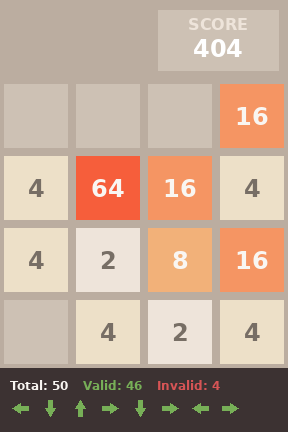
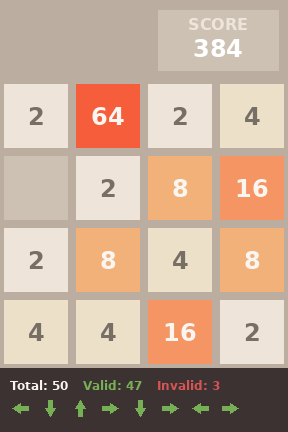
refactor: restructure package to envpack and support multiple environments
- Rename top-level package from gym_2048 to envpack\n- Restructure envs/ into game-specific subdirectories under envs/game_2048/\n- Update all imports, registrations, and setup metadata\n- Update readme and gitignore for python caches

diff --git a/envpack/__init__.py b/envpack/__init__.py
@@ -1,0 +1,9 @@
+"""Envpack: A collection of game environments for Gymnasium."""
+
+from gymnasium.envs.registration import register
+
+register(
+    id="envpack/2048-v0",
+    entry_point="envpack.envs.game_2048.env:Gym2048Env",
+    max_episode_steps=300,
+)

diff --git a/setup.py b/setup.py
@@ -6,7 +6,7 @@ with open("README.md", "r", encoding="utf-8") as f:
     long_description = f.read()
 
 setup(
-    name="gym_2048",
+    name="envpack",
     version="0.0.1",
     packages=find_packages(),
     install_requires=[
@@ -19,10 +19,10 @@ setup(
     ],
     author="Rakesh Iyer",
     author_email="[email redacted]",
-    description="A simple gymnasium environment to play the 2048 game.",
+    description="A collection of game environments for Gymnasium.",
     long_description=long_description,
     long_description_content_type="text/markdown",
-    url="https://github.com/rax85/gym_2048",
+    url="https://github.com/rax85/envpack",
     license="Apache-2.0",
     include_package_data=True,
     classifiers=[

diff --git a/envpack/envs/game_2048/__init__.py b/envpack/envs/game_2048/__init__.py
@@ -1,0 +1,3 @@
+"""2048 game environment."""
+
+from envpack.envs.game_2048.env import Gym2048Env

diff --git a/benchmark_performance.py b/benchmark_performance.py
@@ -5,7 +5,7 @@ Measures the average step time over a large number of steps.
 
 import time
 import numpy as np
-from gym_2048.envs.gym_2048_env import Gym2048Env
+from envpack.envs.game_2048.env import Gym2048Env
 
 
 def benchmark():

diff --git a/update_screenshots.py b/update_screenshots.py
@@ -1,7 +1,7 @@
 import os
 import numpy as np
 from PIL import Image
-from gym_2048.envs.gym_2048_env import Gym2048Env
+from envpack.envs.game_2048.env import Gym2048Env
 import random
 
 

diff --git a/envpack/envs/__init__.py b/envpack/envs/__init__.py
@@ -1,0 +1,1 @@
+"""Gymnasium environments implementation module."""

diff --git a/README.md b/README.md
@@ -1,6 +1,6 @@
-# gym_2048
+# envpack
 
-A simple Gymnasium environment for the game 2048.
+A collection of game environments for Gymnasium. Currently includes the game 2048.
 
 [![Python package](https://github.com/rax85/gym_2048/actions/workflows/python-package.yml/badge.svg)](https://github.com/rax85/gym_2048/actions/workflows/python-package.yml)
 [![Code style: black](https://img.shields.io/badge/code%20style-black-000000.svg)](https://github.com/psf/black)
@@ -8,14 +8,15 @@ A simple Gymnasium environment for the game 2048.
 
 ## Description
 
-This environment implements the classic 2048 game. The game is played on a 4x4 grid. The goal is to slide tiles on the grid to combine tiles of the same value and create a tile with the value 2048.
+This package implements classic games as Gymnasium environments. Currently, it supports:
+1. **2048**: Played on a 4x4 grid. The goal is to slide tiles on the grid to combine tiles of the same value and create a tile with the value 2048.
 
 ## Installation
 
-To install the environment, you can use pip:
+To install the environments, you can use pip:
 
 ```bash
-pip install git+https://github.com/rax85/gym_2048.git
+pip install git+https://github.com/rax85/envpack.git
 ```
 
 ## Usage
@@ -24,9 +25,9 @@ To use the environment, you can use the following code:
 
 ```python
 import gymnasium as gym
-import gym_2048
+import envpack
 
-env = gym.make('gym_2048/2048-v0')
+env = gym.make('envpack/2048-v0')
 
 observation, info = env.reset()
 done = False